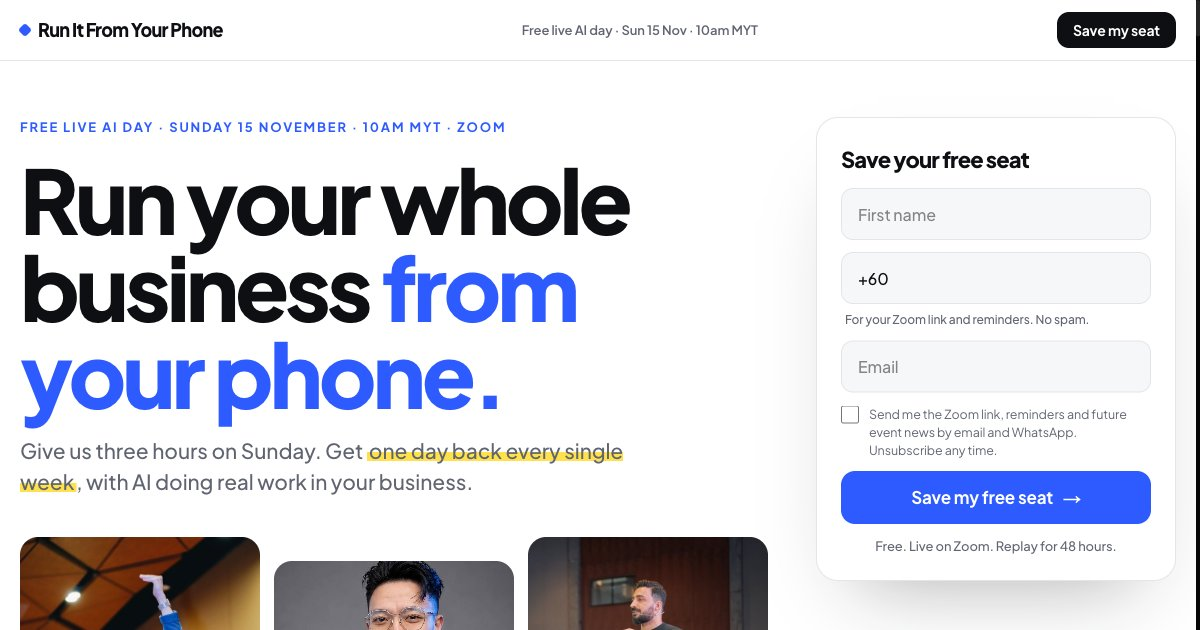
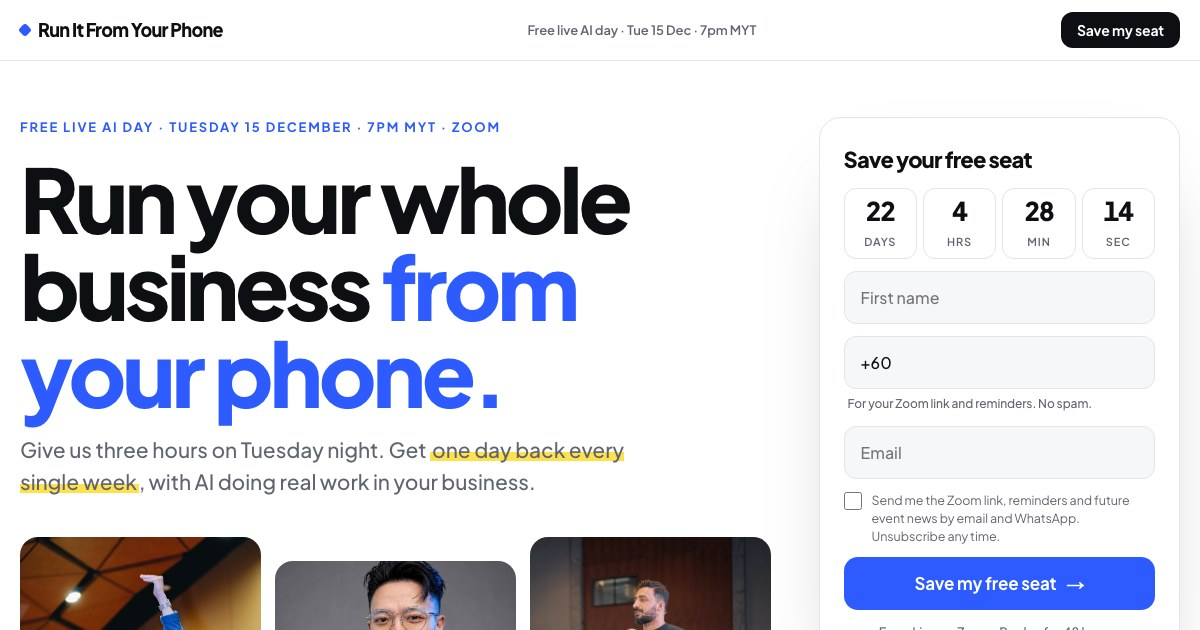
Move the AI day to Tue 15 Dec, 7pm to 10pm MYT: 45 min each, then next step and Q&A (#7)
Date, countdown, calendar link, run of show, agenda, FAQ, VIP hot seat timing,
thank you page, quiz copy, dashboard pace and the share image. The event id
stays ai-day-2026-11-15 so existing registrations carry over.

diff --git a/app/page.tsx b/app/page.tsx
@@ -6,9 +6,9 @@ import { RegisterForm } from "./_components/RegisterForm";
 import { SummitBehaviors } from "./_components/SummitBehaviors";
 import { aidayCompanyLine } from "@/lib/aiday/config";
 
-const TITLE = "Free AI Day, 15 Nov | Run your whole business from your phone";
+const TITLE = "Free AI Day, 15 Dec | Run your whole business from your phone";
 const DESCRIPTION =
-  "A free live AI day on Zoom, Sunday 15 November, 10am Malaysia time. Alaric, Kingsley and Rafay teach one hour each, so you can run your whole business from your phone.";
+  "A free live AI evening on Zoom, Tuesday 15 December, 7pm to 10pm Malaysia time. Alaric, Kingsley and Rafay teach 45 minutes each, so you can run your whole business from your phone.";
 
 export const metadata: Metadata = {
   title: { absolute: TITLE },
@@ -21,7 +21,7 @@ export const metadata: Metadata = {
     siteName: "Claude Malaysia",
     locale: "en_MY",
     type: "website",
-    images: [{ url: "/aiday/og.jpg", width: 1200, height: 630, alt: "Run your whole business from your phone. Free live AI day, Sunday 15 November, 10am MYT." }],
+    images: [{ url: "/aiday/og.jpg", width: 1200, height: 630, alt: "Run your whole business from your phone. Free live AI day, Tuesday 15 December, 7pm MYT." }],
   },
   twitter: {
     card: "summary_large_image",
@@ -39,19 +39,19 @@ export default function AidaySummitPage() {
       <SummitBehaviors />
       <header className="topbar"><div className="in">
         <a className="wordmark" href="#register"><i></i>Run It From Your Phone</a>
-        <span className="meta">Free live AI day · Sun 15 Nov · 10am MYT</span>
+        <span className="meta">Free live AI day · Tue 15 Dec · 7pm MYT</span>
         <a className="btn" href="#register">Save my seat</a>
       </div></header>
 
       <section className="hero"><div className="in">
         <div>
-          <p className="kicker">Free live AI day · <span className="lg">Sunday 15 November</span><span className="sm">Sun 15 Nov</span> · 10am MYT · Zoom</p>
+          <p className="kicker">Free live AI day · <span className="lg">Tuesday 15 December</span><span className="sm">Tue 15 Dec</span> · 7pm MYT · Zoom</p>
           <h1 className="d1">Run your whole business <span className="serif">from your phone.</span></h1>
-          <p className="lede">Give us four hours on Sunday. Get <span className="mark">one day back every single week</span>, with AI doing real work in your business.</p>
+          <p className="lede">Give us three hours on Tuesday night. Get <span className="mark">one day back every single week</span>, with AI doing real work in your business.</p>
           <div className="trio" aria-label="Your three teachers">
-            <figure><div className="photo"><img src="/aiday/assets/alaric-lg.jpg" alt="Alaric Ong on stage" /></div><figcaption><span className="hr">Hour 2</span><b>Alaric Ong</b><span>Founder and CEO, Alaric.AI</span></figcaption></figure>
-            <figure><div className="photo"><img src="/aiday/assets/kingsley-lg.jpg" alt="Kingsley Low" /></div><figcaption><span className="hr">Hour 1</span><b>Kingsley Low</b><span>Founder and CEO, Claude Malaysia</span></figcaption></figure>
-            <figure><div className="photo"><img src="/aiday/assets/rafay-talk.jpg" alt="Rafay Korai speaking on stage" /></div><figcaption><span className="hr">Hour 3</span><b>Rafay Korai</b><span>Managing Director, Mindvalley</span></figcaption></figure>
+            <figure><div className="photo"><img src="/aiday/assets/alaric-lg.jpg" alt="Alaric Ong on stage" /></div><figcaption><span className="hr">7:45pm</span><b>Alaric Ong</b><span>Founder and CEO, Alaric.AI</span></figcaption></figure>
+            <figure><div className="photo"><img src="/aiday/assets/kingsley-lg.jpg" alt="Kingsley Low" /></div><figcaption><span className="hr">7:00pm</span><b>Kingsley Low</b><span>Founder and CEO, Claude Malaysia</span></figcaption></figure>
+            <figure><div className="photo"><img src="/aiday/assets/rafay-talk.jpg" alt="Rafay Korai speaking on stage" /></div><figcaption><span className="hr">8:30pm</span><b>Rafay Korai</b><span>Managing Director, Mindvalley</span></figcaption></figure>
           </div>
         </div>
 
@@ -80,7 +80,7 @@ export default function AidaySummitPage() {
         <div className="answer">
           <p className="kicker">What nobody showed you</p>
           <h3>The answer isn't another tool. <span className="serif">It's the order.</span></h3>
-          <p>There are 5 levels of AI in a business. Most owners are stuck at level 2: asking AI questions, then doing the work themselves. On 15 November we take you up one level at a time, live, until you can see your business running from your phone.</p>
+          <p>There are 5 levels of AI in a business. Most owners are stuck at level 2: asking AI questions, then doing the work themselves. On 15 December we take you up one level at a time, live, until you can see your business running from your phone.</p>
           <a className="btn light" href="#join">Save my free seat <span className="ar">→</span></a>
         </div>
       </div></section>
@@ -89,9 +89,9 @@ export default function AidaySummitPage() {
         <p className="kicker">Before and after the 15th</p>
         <h2 className="d2" style={{ marginTop: "14px" }}>Three hours. <span className="serif">Three changes you can see.</span></h2>
         <div className="chg">
-          <div className="row"><div className="who"><img src="/aiday/assets/kingsley-lg.jpg" alt="" /><div><span>Hour 1</span><b>Kingsley Low</b></div></div><p className="b4">AI answers your questions. You still do the work.</p><p className="af">Your AI helper does the work. You check it.</p></div>
-          <div className="row"><div className="who"><img src="/aiday/assets/alaric-lg.jpg" alt="" /><div><span>Hour 2</span><b>Alaric Ong</b></div></div><p className="b4">Leads come in and go cold while you're busy.</p><p className="af">AI writes the offer, the ad and every follow up.</p></div>
-          <div className="row"><div className="who"><img src="/aiday/assets/rafay-close.jpg" alt="" /><div><span>Hour 3</span><b>Rafay Korai</b></div></div><p className="b4">Everything runs through you, on ten tabs.</p><p className="af">The business runs from your phone. You decide.</p></div>
+          <div className="row"><div className="who"><img src="/aiday/assets/kingsley-lg.jpg" alt="" /><div><span>7:00pm</span><b>Kingsley Low</b></div></div><p className="b4">AI answers your questions. You still do the work.</p><p className="af">Your AI helper does the work. You check it.</p></div>
+          <div className="row"><div className="who"><img src="/aiday/assets/alaric-lg.jpg" alt="" /><div><span>7:45pm</span><b>Alaric Ong</b></div></div><p className="b4">Leads come in and go cold while you're busy.</p><p className="af">AI writes the offer, the ad and every follow up.</p></div>
+          <div className="row"><div className="who"><img src="/aiday/assets/rafay-close.jpg" alt="" /><div><span>8:30pm</span><b>Rafay Korai</b></div></div><p className="b4">Everything runs through you, on ten tabs.</p><p className="af">The business runs from your phone. You decide.</p></div>
         </div>
       </div></section>
 
@@ -103,14 +103,13 @@ export default function AidaySummitPage() {
       </div></section>
 
       <section className="band" id="day"><div className="in">
-        <p className="kicker">The agenda · Sunday 15 November · Malaysia time</p>
-        <h2 className="d2" style={{ marginTop: "14px" }}>Four hours. <span className="serif">One level up.</span></h2>
+        <p className="kicker">The agenda · Tuesday 15 December · Malaysia time</p>
+        <h2 className="d2" style={{ marginTop: "14px" }}>Three hours. <span className="serif">One level up.</span></h2>
         <div className="ag">
-          <div className="slot"><span className="tm">10:00<small>10 min</small></span><span className="face all">All<br />three</span><div><h3>Your level, found</h3><p>Bring your quiz result. We start from where you are.</p></div><span className="lv">Starting point</span></div>
-          <div className="slot hour"><span className="tm">10:10<small>Hour 1</small></span><span className="face"><img src="/aiday/assets/kingsley-lg.jpg" alt="" /></span><div><h3><span className="live">Live build</span>Build your first AI helper</h3><p>Kingsley Low. You build along. It works for your business by 11:10.</p></div><span className="lv">Asker → Amplifier</span></div>
-          <div className="slot hour"><span className="tm">11:10<small>Hour 2</small></span><span className="face"><img src="/aiday/assets/alaric-lg.jpg" alt="" /></span><div><h3><span className="live">Live build</span>AI that sells for you</h3><p>Alaric Ong. Your offer, your ad and your follow ups, written with AI live.</p></div><span className="lv">Amplifier → Builder</span></div>
-          <div className="slot hour"><span className="tm">12:10<small>Hour 3</small></span><span className="face"><img src="/aiday/assets/rafay-close.jpg" alt="" /></span><div><h3><span className="live">Live demo</span>The Power CEO</h3><p>Rafay Korai. A real business run from a phone, on screen.</p></div><span className="lv">Builder → Power CEO</span></div>
-          <div className="slot"><span className="tm">1:10<small>Hour 4</small></span><span className="face all">All<br />three</span><div><h3>Your questions, live</h3><p>A full hour to ask all three of us anything: your business, your tools, your next step. Ends about 2:10pm.</p></div><span className="lv">Live Q&amp;A</span></div>
+          <div className="slot hour"><span className="tm">7:00<small>45 min</small></span><span className="face"><img src="/aiday/assets/kingsley-lg.jpg" alt="" /></span><div><h3><span className="live">Live build</span>Build your first AI helper</h3><p>Kingsley Low. We start from your level, then you build along. It works for your business by 7:45.</p></div><span className="lv">Asker → Amplifier</span></div>
+          <div className="slot hour"><span className="tm">7:45<small>45 min</small></span><span className="face"><img src="/aiday/assets/alaric-lg.jpg" alt="" /></span><div><h3><span className="live">Live build</span>AI that sells for you</h3><p>Alaric Ong. Your offer, your ad and your follow ups, written with AI live.</p></div><span className="lv">Amplifier → Builder</span></div>
+          <div className="slot hour"><span className="tm">8:30<small>45 min</small></span><span className="face"><img src="/aiday/assets/rafay-close.jpg" alt="" /></span><div><h3><span className="live">Live demo</span>The Power CEO</h3><p>Rafay Korai. A real business run from a phone, on screen.</p></div><span className="lv">Builder → Power CEO</span></div>
+          <div className="slot"><span className="tm">9:15<small>45 min</small></span><span className="face all">All<br />three</span><div><h3>Your next step, and your questions</h3><p>How to keep building with all three of us, then your questions answered live. Ends at 10pm.</p></div><span className="lv">Next step · Q&amp;A</span></div>
         </div>
         <a className="btn" href="#join" style={{ marginTop: "36px" }}>Save my free seat <span className="ar">→</span></a>
       </div></section>
@@ -127,7 +126,7 @@ export default function AidaySummitPage() {
           <article className="pf">
             <div className="photo"><img src="/aiday/assets/alaric-lg.jpg" alt="Alaric Ong on stage" /></div>
             <div className="tx">
-              <span className="hr">Hour 2 · AI that sells · 11:10am</span>
+              <span className="hr">7:45pm · AI that sells · 45 minutes</span>
               <h3>Alaric Ong</h3>
               <p className="ttl">Founder and CEO, Alaric.AI and OmniConvo.AI · Entrepreneur, speaker, author</p>
               <p className="claim">Zero to <em>USD 1.2M in 18 months</em>, with no starting capital.</p>
@@ -141,7 +140,7 @@ export default function AidaySummitPage() {
           <article className="pf">
             <div className="photo"><img src="/aiday/assets/kingsley-lg.jpg" alt="Kingsley Low" /></div>
             <div className="tx">
-              <span className="hr">Hour 1 · Your first AI helper · 10:10am</span>
+              <span className="hr">7:00pm · Your first AI helper · 45 minutes</span>
               <h3>Kingsley Low</h3>
               <p className="ttl">Founder and CEO, Claude Malaysia and CloserKing.AI</p>
               <p className="claim">From his last 10k in savings to <em>USD 64K closed in 99 days.</em></p>
@@ -155,7 +154,7 @@ export default function AidaySummitPage() {
           <article className="pf">
             <div className="photo"><img src="/aiday/assets/rafay-close.jpg" alt="Rafay Korai" /></div>
             <div className="tx">
-              <span className="hr">Hour 3 · The Power CEO · 12:10pm</span>
+              <span className="hr">8:30pm · The Power CEO · 45 minutes</span>
               <h3>Rafay Korai</h3>
               <p className="ttl">Managing Director, Mindvalley · AI builder</p>
               <p className="claim">Took a membership business from <em>zero to USD 80M in two years.</em></p>
@@ -193,7 +192,7 @@ export default function AidaySummitPage() {
           <details open><summary>I'm not technical. Will I understand it?</summary><p>Yes. No coding. We go step by step in plain words, and you build along.</p></details>
           <details><summary>I already use ChatGPT or Claude. What's different?</summary><p>That's level 2. This day shows you levels 3 to 5: AI that does the work, sells for you, and runs from your phone.</p></details>
           <details><summary>Will it work for my kind of business?</summary><p>Yes. Shops, services, agencies, coaching, F&amp;B, property. New or already running.</p></details>
-          <details><summary>What if I can't stay for four hours?</summary><p>Come for your hour. The free replay is up for 48 hours.</p></details>
+          <details><summary>What if I can't stay for all three hours?</summary><p>Come for the part you need most. The free replay is up for 48 hours.</p></details>
           <details><summary>Is it really free?</summary><p>Yes. The live day and the 48 hour replay are free.</p></details>
           <details><summary>Will you sell something?</summary><p>Near the end we explain how to build it with us in KL in January. You get full value without buying anything.</p></details>
           <details><summary>What language is it in?</summary><p>English.</p></details>
@@ -201,7 +200,7 @@ export default function AidaySummitPage() {
       </div></section>
 
       <section className="band close"><div className="in">
-        <p className="kicker" style={{ color: "var(--hi)" }}>Sunday 15 November · 10am · Online</p>
+        <p className="kicker" style={{ color: "var(--hi)" }}>Tuesday 15 December · 7pm · Online</p>
         <h2 className="d2">Stop running everything. <span className="serif" style={{ color: "#8FA6FF" }}>Run it from your phone.</span></h2>
         <Countdown />
         <RegisterForm variant="bottom" />
@@ -212,7 +211,7 @@ export default function AidaySummitPage() {
         <span>{aidayCompanyLine()} · <a href="/privacy" target="_blank" rel="noopener">Privacy</a> · <a href="/terms" target="_blank" rel="noopener">Terms</a></span>
       </div></footer>
 
-      <div className="sticky"><div><b>Free AI day</b>Sun 15 Nov · 10am · Online</div><a className="btn blue" href="#register">Save my seat</a></div>
+      <div className="sticky"><div><b>Free AI day</b>Tue 15 Dec · 7pm · Online</div><a className="btn blue" href="#register">Save my seat</a></div>
     </div>
   );
 }

diff --git a/app/internal/Dashboard.tsx b/app/internal/Dashboard.tsx
@@ -43,7 +43,7 @@ function normalize(raw: Record<string, unknown>): Stats {
     updated_at: typeof raw.updated_at === "string" ? raw.updated_at : new Date().toISOString(),
     goal: num(raw.goal, 5000) || 5000,
     launch: typeof raw.launch === "string" ? raw.launch : "2026-11-08",
-    event_day: typeof raw.event_day === "string" ? raw.event_day : "2026-11-15",
+    event_day: typeof raw.event_day === "string" ? raw.event_day : "2026-12-15",
     vip_price_rm: num(raw.vip_price_rm, 47),
     funnel: {
       visitors: num(F.visitors), registered: num(F.registered), vip_viewed: num(F.vip_viewed), vip_paid: num(F.vip_paid),
@@ -101,25 +101,25 @@ export function Dashboard({ who }: { who: string }) {
         ["Goal", pc(F.registered, D.goal), f(F.registered) + " of " + f(D.goal), F.registered / D.goal],
         ["VIP sold", f(F.vip_paid), pc(F.vip_paid, F.registered) + " of registered"],
         ["VIP revenue", "RM " + f(F.vip_paid * D.vip_price_rm), "at RM " + D.vip_price_rm + " each"],
-        ["Joined live", f(F.attended), F.attended == null ? "fills in on Sunday" : pc(F.attended, F.registered) + " of registered"],
+        ["Joined live", f(F.attended), F.attended == null ? "fills in on 15 Dec" : pc(F.attended, F.registered) + " of registered"],
       ];
       $("kpis").innerHTML = K.map((k) => '<div class="kpi"><small>' + k[0] + "</small><b>" + k[1] + "</b><span>" + k[2] + "</span>" + (k[3] != null ? '<div class="prog"><i style="width:' + Math.min(100, k[3] * 100) + '%"></i></div>' : "") + "</div>").join("");
 
       type Step = [string, string, string?, string?, number?];
       const steps: Step[] = [["g", "Getting them in"], ["Visited the page", "visitors"], ["Registered", "registered", "visitors", "of visitors"], ["Saw the VIP offer", "vip_viewed", "registered", "of registered"], ["Bought VIP", "vip_paid", "vip_viewed", "of those who saw it"],
         ["g", "After they sign up"], ["Joined WhatsApp", "whatsapp_joined", "registered", "of registered"], ["Added to calendar", "calendar_added", "registered", "of registered"], ["Opened an email", "email_opened", "registered", "of registered"], ["Took the quiz", "quiz_done", "registered", "of registered"],
-        ["g", "Sunday (from the Zoom report)"], ["Joined live on Zoom", "attended", "registered", "of registered", 1], ["Stayed to the 1:10pm close", "stayed_to_close", "attended", "of those who joined", 1]];
+        ["g", "Tue 15 Dec (from the Zoom report)"], ["Joined live on Zoom", "attended", "registered", "of registered", 1], ["Stayed for the 9:15pm close", "stayed_to_close", "attended", "of those who joined", 1]];
       const FF = F as unknown as Record<string, number | null>;
       $("fun").innerHTML = steps.map((s) => {
         if (s[0] === "g") return '<p class="grp">' + s[1] + "</p>";
         const v = FF[s[1]], w = v == null ? 0 : (v / (F.visitors || 1)) * 100;
-        const sub = v == null ? "fills in on Sunday" : s[2] ? pc(v, FF[s[2]]) + " " + s[3] : "100%";
+        const sub = v == null ? "fills in on 15 Dec" : s[2] ? pc(v, FF[s[2]]) + " " + s[3] : "100%";
         return '<div class="fr" title="' + s[0] + ": " + f(v) + '"><span class="lb">' + s[0] + '</span><span class="tr"><span class="br' + (s[4] ? " after" : "") + '" style="width:' + (v == null ? 100 : Math.max(0.4, w)) + '%"></span></span><span class="nm"><b>' + f(v) + "</b><span>" + sub + "</span></span></div>";
       }).join("");
 
       line(D);
       const lastDay = D.daily.length ? D.daily[D.daily.length - 1].registered : 0;
-      const left = Math.max(0, (new Date(D.event_day + "T10:00:00+08:00").getTime() - new Date(D.updated_at).getTime()) / 864e5);
+      const left = Math.max(0, (new Date(D.event_day + "T19:00:00+08:00").getTime() - new Date(D.updated_at).getTime()) / 864e5);
       const need = Math.max(0, D.goal - F.registered);
       $("pace").innerHTML = "<div><small>New today</small><b>" + f(lastDay) + "</b></div><div><small>Still to go</small><b>" + f(need) + "</b></div><div><small>Needed per day</small><b>" + f(left > 0 ? Math.ceil(need / Math.max(1, left)) : need) + "</b></div>";
 
@@ -151,7 +151,7 @@ export function Dashboard({ who }: { who: string }) {
     /* total registered vs pace to the goal: one unit (people), one axis */
     function line(D: Stats) {
       const box = $("line"), W = 560, H = 240, P = { l: 44, r: 16, t: 14, b: 28 };
-      const d0 = new Date(D.launch + "T00:00:00+08:00").getTime(), d1 = new Date(D.event_day + "T10:00:00+08:00").getTime();
+      const d0 = new Date(D.launch + "T00:00:00+08:00").getTime(), d1 = new Date(D.event_day + "T19:00:00+08:00").getTime();
       const days: number[] = [];
       for (let t = d0; t <= d1; t += 864e5) days.push(t);
       const x = (ms: number) => P.l + ((ms - d0) / (d1 - d0)) * (W - P.l - P.r), y = (v: number) => H - P.b - (v / D.goal) * (H - P.t - P.b);
@@ -197,13 +197,13 @@ export function Dashboard({ who }: { who: string }) {
         <form method="post" action="/aiday/api/logout"><button className="btn line" type="submit" id="out" style={{ padding: "9px 14px", fontSize: "14px" }}>Sign out</button></form>
       </div></header>
       <div className="in">
-        <div className="head"><div><p className="kicker">Free AI day · Sun 15 Nov · 10am MYT</p><h1 style={{ marginTop: "8px" }}>How&apos;s the launch going?</h1></div><p id="upd">Loading the numbers…</p></div>
+        <div className="head"><div><p className="kicker">Free AI day · Tue 15 Dec · 7pm MYT</p><h1 style={{ marginTop: "8px" }}>How&apos;s the launch going?</h1></div><p id="upd">Loading the numbers…</p></div>
         <div className="grid">
           <div className="kpis" id="kpis"></div>
 
           <div className="two">
             <div className="card"><h2>The funnel</h2><p className="sub">How far people get, from first visit to staying for the close. Each % is against the step it comes from.</p><div className="fun" id="fun"></div><p className="note">Bar length is people, against everyone who visited. Striped bars fill in on Sunday.</p></div>
-            <div className="card"><h2>Registrations vs the 5,000 goal</h2><p className="sub">Total registered so far, against the pace needed to reach 5,000 by Sunday 10am.</p><div className="chart" id="line"><div className="tip" id="tip"></div></div><div className="legend"><span><i></i>Registered (total)</span><span><i className="d"></i>Pace to 5,000</span></div><div className="pace" id="pace"></div></div>
+            <div className="card"><h2>Registrations vs the 5,000 goal</h2><p className="sub">Total registered so far, against the pace needed to reach 5,000 by Tue 15 Dec, 7pm.</p><div className="chart" id="line"><div className="tip" id="tip"></div></div><div className="legend"><span><i></i>Registered (total)</span><span><i className="d"></i>Pace to 5,000</span></div><div className="pace" id="pace"></div></div>
           </div>
 
           <div className="card"><h2>Where people come from</h2><p className="sub">By UTM source. Registration rate = registered ÷ visitors.</p><div className="tw"><table id="src"></table></div></div>

diff --git a/app/thank-you/page.tsx b/app/thank-you/page.tsx
@@ -30,12 +30,12 @@ export default async function AidayThankYouPage({ searchParams }: Props) {
 
       <section className="cele"><Confetti /><div className="in">
         <p className="kicker">Congratulations<span id="nm">{name ? `, ${name}` : ""}</span></p>
-        <h1 className="d1">You're in. <span className="serif">Sunday changes everything.</span></h1>
-        <p className="lede">In four hours you'll find your level, build your first AI helper, and watch a business run from a phone. Here's everything you need.</p>
-        <div className="when"><span>Sun 15 November</span><span>10am to 2:10pm MYT</span><span>Live on Zoom</span></div>
+        <h1 className="d1">You're in. <span className="serif">Tuesday night changes everything.</span></h1>
+        <p className="lede">In three hours you'll find your level, build your first AI helper, and watch a business run from a phone. Here's everything you need.</p>
+        <div className="when"><span>Tue 15 December</span><span>7pm to 10pm MYT</span><span>Live on Zoom</span></div>
         <p className="cdl">Starts in <StartsIn /></p>
         <div className="acts" aria-label="Do these three things now">
-          <div className="act"><div><small>Step 1</small><b>Add it to your calendar</b><p>So Sunday morning stays free.</p></div><TrackedLink className="btn line" id="cal" href={AIDAY_CALENDAR_URL} target="_blank" rel="noopener" event="calendar_click" token={token}>Add to calendar</TrackedLink></div>
+          <div className="act"><div><small>Step 1</small><b>Add it to your calendar</b><p>So Tuesday night stays free.</p></div><TrackedLink className="btn line" id="cal" href={AIDAY_CALENDAR_URL} target="_blank" rel="noopener" event="calendar_click" token={token}>Add to calendar</TrackedLink></div>
           <div className="act"><div><small>Step 2</small><b>Join the WhatsApp group</b><p>Your Zoom link and reminders land here first.</p></div><WhatsAppLink base={waUrl} token={token} /></div>
           <div className="act"><div><small>Step 3</small><b>Find your level</b><p>One quick quiz, 45 seconds. We start from your answer.</p></div><a className="btn blue" href="#quiz">Take the quiz <span className="ar">→</span></a></div>
         </div>
@@ -43,11 +43,11 @@ export default async function AidayThankYouPage({ searchParams }: Props) {
 
       <section className="band walk"><div className="in">
         <p className="kicker">What you'll walk away with</p>
-        <h2 className="d2" style={{ marginTop: "14px" }}>Three hours. <span className="serif">Three things you'll have.</span></h2>
+        <h2 className="d2" style={{ marginTop: "14px" }}>Three teachers. <span className="serif">Three things you'll have.</span></h2>
         <div className="hrs">
-          <div className="h"><div className="photo"><img src="/aiday/assets/kingsley-lg.jpg" alt="Kingsley Low" /></div><span className="tag">Hour 1 · 10:10 · Kingsley</span><b>Your first AI helper, working.</b><p>You build it along with Kingsley, step by step, for your own business.</p><p className="out"><span>You leave with</span> a helper that does a task you do every week.</p></div>
-          <div className="h"><div className="photo"><img src="/aiday/assets/alaric-lg.jpg" alt="Alaric Ong" /></div><span className="tag">Hour 2 · 11:10 · Alaric</span><b>AI that sells for you.</b><p>Your offer, your ad and your follow ups, written with AI while you watch.</p><p className="out"><span>You leave with</span> words that sell, ready to post and send.</p></div>
-          <div className="h"><div className="photo"><img src="/aiday/assets/rafay-talk.jpg" alt="Rafay Korai" /></div><span className="tag">Hour 3 · 12:10 · Rafay</span><b>The Power CEO, live.</b><p>A real business run from a phone, on screen: leads, posts, invoices and ads.</p><p className="out"><span>You leave with</span> the picture of where you're going, and the steps.</p></div>
+          <div className="h"><div className="photo"><img src="/aiday/assets/kingsley-lg.jpg" alt="Kingsley Low" /></div><span className="tag">7:00pm · Kingsley</span><b>Your first AI helper, working.</b><p>You build it along with Kingsley, step by step, for your own business.</p><p className="out"><span>You leave with</span> a helper that does a task you do every week.</p></div>
+          <div className="h"><div className="photo"><img src="/aiday/assets/alaric-lg.jpg" alt="Alaric Ong" /></div><span className="tag">7:45pm · Alaric</span><b>AI that sells for you.</b><p>Your offer, your ad and your follow ups, written with AI while you watch.</p><p className="out"><span>You leave with</span> words that sell, ready to post and send.</p></div>
+          <div className="h"><div className="photo"><img src="/aiday/assets/rafay-talk.jpg" alt="Rafay Korai" /></div><span className="tag">8:30pm · Rafay</span><b>The Power CEO, live.</b><p>A real business run from a phone, on screen: leads, posts, invoices and ads.</p><p className="out"><span>You leave with</span> the picture of where you're going, and the steps.</p></div>
         </div>
       </div></section>
 
@@ -59,7 +59,7 @@ export default async function AidayThankYouPage({ searchParams }: Props) {
       </div></section>
 
       <section className="band bring"><div className="in">
-        <div><p className="kicker">Bring these on Sunday</p><ul><li>A laptop and your phone</li><li>A free AI account (we show you which at the start)</li><li>One task you repeat every week</li><li>One product or service you want to sell more of</li></ul></div>
+        <div><p className="kicker">Bring these on Tuesday night</p><ul><li>A laptop and your phone</li><li>A free AI account (we show you which at the start)</li><li>One task you repeat every week</li><li>One product or service you want to sell more of</li></ul></div>
         <div><p className="kicker">Bring a friend who runs a business</p><p className="d3" style={{ marginTop: "14px" }}>Their seat is free too. <span className="serif">Send them this.</span></p><CopyLink url={AIDAY_SHARE_URL} /></div>
       </div></section>
 

diff --git a/app/vip/page.tsx b/app/vip/page.tsx
@@ -31,7 +31,7 @@ export default async function AidayVipPage({ searchParams }: Props) {
       <section className="stage"><div className="in">
         <div>
           <p className="kicker">Your free seat is saved · one last step</p>
-          <h1 className="d1">Keep the whole day. <span className="serif">Build it at your own pace.</span></h1>
+          <h1 className="d1">Keep all three hours. <span className="serif">Build it at your own pace.</span></h1>
           <p className="lede">Add VIP and the replay is yours for good, with every prompt we use, the Power CEO workbook, and the hot seat with all three of us after the live day.</p>
           <div className="order" aria-label="Add VIP to your order">
             <div className="op"><b>RM {AIDAY_VIP_PRICE_RM}</b><span>one payment · card or FPX</span></div>
@@ -43,8 +43,8 @@ export default async function AidayVipPage({ searchParams }: Props) {
         <div className="ticket" aria-label="VIP pass">
           <div className="main">
             <div className="top"><b>VIP pass</b><span>Run It From Your Phone</span></div>
-            <h2>Free AI Day <span className="serif">15.11.26</span></h2>
-            <div className="grid"><div><small>Starts</small><b>10am MYT</b></div><div><small>Where</small><b>Zoom</b></div><div><small>Replay</small><b>Yours to keep</b></div></div>
+            <h2>Free AI Day <span className="serif">15.12.26</span></h2>
+            <div className="grid"><div><small>Starts</small><b>7pm MYT</b></div><div><small>Where</small><b>Zoom</b></div><div><small>Replay</small><b>Yours to keep</b></div></div>
             <p className="was">Free seat: replay ends after 48 hours. VIP: <b>forever</b>, plus the hot seat.</p>
           </div>
           <div className="stub"><b>VIP</b><span>RM {AIDAY_VIP_PRICE_RM}</span></div>
@@ -56,8 +56,8 @@ export default async function AidayVipPage({ searchParams }: Props) {
           <p className="kicker">What the VIP pass unlocks</p>
           <h2 className="d2" style={{ marginTop: "14px" }}>Four things the free seat <span className="serif">doesn't get.</span></h2>
           <div className="ul">
-            <div className="u"><span className="n">01</span><div><b>The full replay, yours to keep</b><p>All four hours. Go back to any hour whenever you're ready for your next level.</p><span className="vs">Free seat: gone after 48 hours</span></div></div>
-            <div className="u"><span className="n">02</span><div><b>The VIP hot seat, one full hour live</b><p>When the day ends, all three of us stay on for a full hour, just for VIPs. Selected VIPs bring a real problem from their business and we work through it live, while every VIP watches. You leave knowing the first job in your business to hand to AI, the prompt or helper that does it, and your next step for Monday.</p><span className="vs">VIP only</span></div></div>
+            <div className="u"><span className="n">01</span><div><b>The full replay, yours to keep</b><p>All three hours. Go back to any part whenever you're ready for your next level.</p><span className="vs">Free seat: gone after 48 hours</span></div></div>
+            <div className="u"><span className="n">02</span><div><b>The VIP hot seat, one full hour live</b><p>When we finish at 10pm, all three of us stay on for a full hour, just for VIPs. Selected VIPs bring a real problem from their business and we work through it live, while every VIP watches. You leave knowing the first job in your business to hand to AI, the prompt or helper that does it, and your next step for Monday.</p><span className="vs">VIP only</span></div></div>
             <div className="u"><span className="n">03</span><div><b>The Power CEO workbook and level test</b><p>Check your level, follow the steps, and test again after you build.</p><span className="vs">VIP only</span></div></div>
             <div className="u"><span className="n">04</span><div><b>The prompt pack</b><p>Every prompt we use on the day, ready to paste into your own AI.</p><span className="vs">VIP only</span></div></div>
           </div>

diff --git a/app/_components/ThankYou.tsx b/app/_components/ThankYou.tsx
@@ -139,11 +139,11 @@ export function CopyLink({ url }: { url: string }) {
 /* One quiz: 3 level questions (scored), then 3 business questions; the level is shown at the end. */
 const NAMES = ["", "Watcher", "Asker", "Amplifier", "Builder", "Power CEO"];
 const HOUR: Record<number, string> = {
-  1: "You start at zero, and that is fine. Hour 1 with Kingsley gets your first AI helper working by 11:10.",
-  2: "You ask AI questions, then do the work yourself. Hour 1 with Kingsley turns that into an AI helper that does the work.",
-  3: "AI already makes you faster. Hour 2 with Alaric makes it sell for you: offer, ad and follow ups.",
-  4: "You build with AI. Hour 3 with Rafay shows the last step: the whole business running from your phone.",
-  5: "You run on AI already. Come for hour 3 and the live Q&A, and compare notes with all three of us.",
+  1: "You start at zero, and that is fine. Kingsley's session at 7pm gets your first AI helper working by 7:45.",
+  2: "You ask AI questions, then do the work yourself. Kingsley's session at 7pm turns that into an AI helper that does the work.",
+  3: "AI already makes you faster. Alaric's session at 7:45pm makes it sell for you: offer, ad and follow ups.",
+  4: "You build with AI. Rafay's session at 8:30pm shows the last step: the whole business running from your phone.",
+  5: "You run on AI already. Come for Rafay's session at 8:30pm and the live Q&A at 9:15pm, and compare notes with all three of us.",
 };
 type Q = { k: "use" | "leads" | "week" | "stage" | "revenue" | "help"; lv?: boolean; q: string; o: string[] };
 const QUESTIONS: Q[] = [
@@ -211,7 +211,7 @@ export function Quiz({ token }: { token: string }) {
           ))}
         </div>
         <p id="qzT" style={{ color: "var(--muted)", fontSize: "17px" }}>{level ? HOUR[level] : ""}</p>
-        <p style={{ fontSize: "15px", color: "var(--muted)" }}>Thank you. Your answers help us choose what we build live on Sunday.</p>
+        <p style={{ fontSize: "15px", color: "var(--muted)" }}>Thank you. Your answers help us choose what we build live on Tuesday night.</p>
         <div className="nav">
           <span />
           <button type="button" className="link" id="again" onClick={() => { setI(0); setScores({}); setLevel(0); }}>Take it again</button>

diff --git a/lib/aiday/config.ts b/lib/aiday/config.ts
@@ -1,14 +1,15 @@
 /**
- * Run It From Your Phone: free online AI day, Sunday 15 Nov 2026, 10am MYT.
+ * Run It From Your Phone: free online AI day, Tuesday 15 Dec 2026, 7pm to 10pm MYT.
  * Shared constants for /aiday, /aiday/vip, /aiday/thank-you and /aiday/internal.
  * Safe to import from client components (no secrets here).
  */
 
+/** Kept from the first date (15 Nov) so registrations carry over to 15 Dec. */
 export const AIDAY_EVENT = "ai-day-2026-11-15";
 
-/** 10:00 MYT on Sunday 15 Nov 2026. */
-export const AIDAY_START_ISO = "2026-11-15T02:00:00Z";
-export const AIDAY_START_MS = Date.UTC(2026, 10, 15, 2, 0, 0);
+/** 19:00 MYT on Tuesday 15 Dec 2026. Ends 22:00 MYT. */
+export const AIDAY_START_ISO = "2026-12-15T11:00:00Z";
+export const AIDAY_START_MS = Date.UTC(2026, 11, 15, 11, 0, 0);
 
 export const AIDAY_SHARE_URL = "https://www.claudemalaysia.com/aiday";
 
@@ -27,7 +28,7 @@ export const AIDAY_VIP_PRICE_RM = 47;
 export const AIDAY_CALENDAR_URL =
   "https://calendar.google.com/calendar/render?action=TEMPLATE&text=" +
   encodeURIComponent("Free AI day, live on Zoom") +
-  "&dates=20261115T020000Z/20261115T061000Z&details=" +
+  "&dates=20261215T110000Z/20261215T140000Z&details=" +
   encodeURIComponent(
-    "Alaric, Kingsley and Rafay. 10am to about 2:10pm Malaysia time. Your Zoom link comes by email and WhatsApp the day before.",
+    "Alaric, Kingsley and Rafay. 7pm to 10pm Malaysia time. Your Zoom link comes by email and WhatsApp the day before.",
   );

diff --git a/app/_components/Levels.tsx b/app/_components/Levels.tsx
@@ -11,11 +11,11 @@ const LEVELS: [number, string, string][] = [
 ];
 
 const ANSWER: Record<number, [string, string]> = {
-  1: ["Level 1 → 2", "Hour 1 with Kingsley starts from zero and gets your first AI helper working."],
-  2: ["Level 2 → 3", "Hour 1 with Kingsley turns your questions into an AI helper that does the work."],
-  3: ["Level 3 → 4", "Hour 2 with Alaric makes AI sell for you: offer, ad and follow ups."],
-  4: ["Level 4 → 5", "Hour 3 with Rafay shows the last step: the whole business on your phone."],
-  5: ["Level 5", "Come for hour 3 and the live Q&A. Compare notes with all three of us."],
+  1: ["Level 1 → 2", "Kingsley's session at 7pm starts from zero and gets your first AI helper working."],
+  2: ["Level 2 → 3", "Kingsley's session at 7pm turns your questions into an AI helper that does the work."],
+  3: ["Level 3 → 4", "Alaric's session at 7:45pm makes AI sell for you: offer, ad and follow ups."],
+  4: ["Level 4 → 5", "Rafay's session at 8:30pm shows the last step: the whole business on your phone."],
+  5: ["Level 5", "Come for Rafay's session at 8:30pm and the live Q&A at 9:15pm. Compare notes with all three of us."],
 };
 
 export function Levels() {

diff --git a/app/_components/Countdown.tsx b/app/_components/Countdown.tsx
@@ -10,7 +10,7 @@ function parts(): Parts {
   return { d: Math.floor(d / 864e5), h: Math.floor((d % 864e5) / 36e5), m: Math.floor((d % 36e5) / 6e4), s: Math.floor((d % 6e4) / 1e3) };
 }
 
-/** Four cell countdown to 10:00 MYT, Sun 15 Nov. Shows "--" until mounted (no hydration mismatch). */
+/** Four cell countdown to 7pm MYT, Tue 15 Dec. Shows "--" until mounted (no hydration mismatch). */
 export function Countdown() {
   const [p, setP] = useState<Parts>(null);
   useEffect(() => {

diff --git a/app/layout.tsx b/app/layout.tsx
@@ -4,7 +4,7 @@ import Script from "next/script";
 import { AIDAY_PIXEL_ID, SITE_PIXEL_ID } from "@/lib/aiday/pixel";
 
 /*
- * Run It From Your Phone (free AI day, 15 Nov 2026). Served at
+ * Run It From Your Phone (free AI day, 15 Dec 2026). Served at
  * www.claudemalaysia.com/aiday: the main site rewrites /aiday/* to this app,
  * which runs with basePath "/aiday". These pages are a faithful port of the
  * partner approved pack (Alaric, Kingsley and Rafay): the pack's own design,

diff --git a/AGENTS.md b/AGENTS.md
@@ -1,4 +1,4 @@
-# AI Day funnel (Run It From Your Phone, Sun 15 Nov 2026)
+# AI Day funnel (Run It From Your Phone, Tue 15 Dec 2026, 7pm to 10pm MYT)
 
 The free AI Day pages, live at **www.claudemalaysia.com/aiday**. Owned by
 Alaric, Kingsley and Rafay. This repo holds only these pages.

diff --git a/CLAUDE.md b/CLAUDE.md
@@ -1,4 +1,4 @@
-# AI Day funnel (Run It From Your Phone, Sun 15 Nov 2026)
+# AI Day funnel (Run It From Your Phone, Tue 15 Dec 2026, 7pm to 10pm MYT)
 
 The free AI Day pages, live at **www.claudemalaysia.com/aiday**. Owned by
 Alaric, Kingsley and Rafay. This repo holds only these pages.
